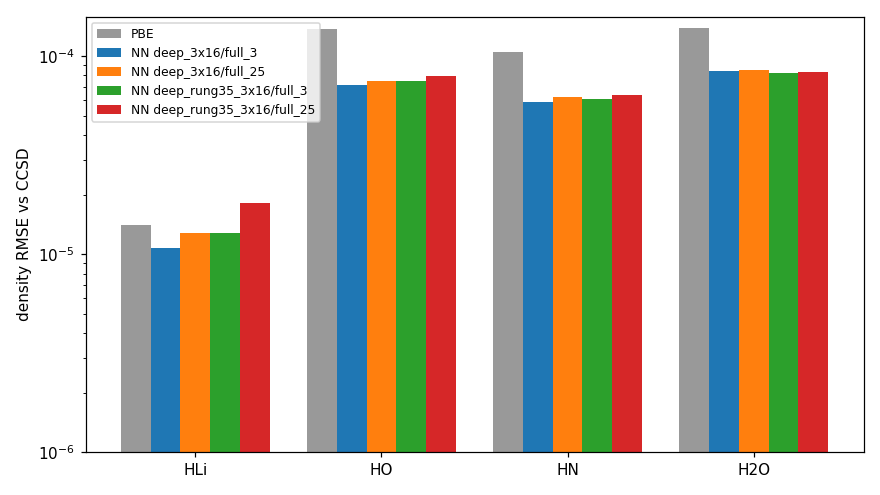
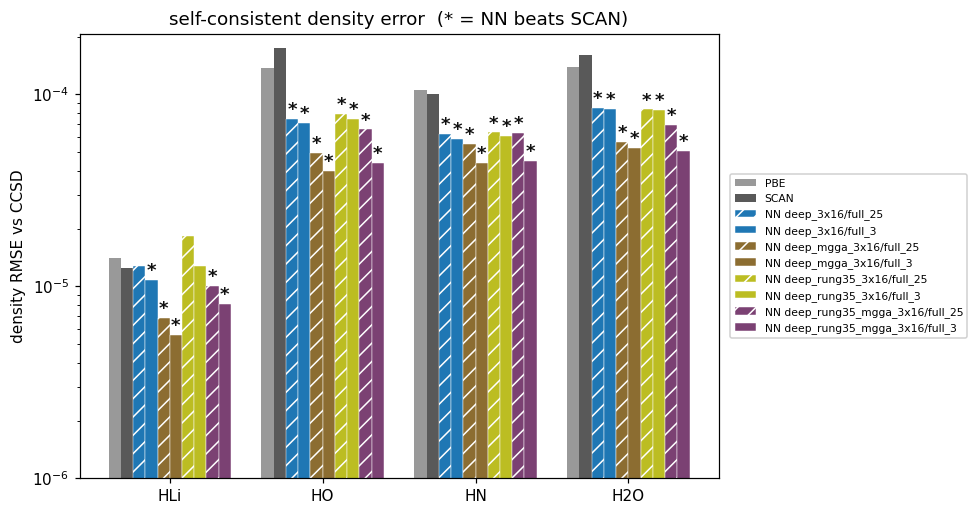
dfs demo README: meta-GGA-inclusive section 4 results + new baseline-line figures + overfitting verdict
4.1/4.2 now carry all 4 archs x 2 solvers (add deep_mgga_3x16 + deep_rung35_mgga_3x16), with a held-out table including PBE + SCAN baselines; embedded figures/*.png refreshed to the Phase-20 baseline-line 4-arch renders from the full run (spot-checked vs committed runs/ eval JSON).

prose rewritten to the audited verdict: held-out density transfers 8/8 (NN beats PBE AND SCAN; SCAN density is worse than PBE), held-out energy inverts the in-sample ranking so the descriptor-rich archs overfit (meta-GGA best in-sample 0.16-0.46, worst held-out 51.01-51.79 = ~110x blow-up), 4/8 beat PBE on energy, ED 8/8. eval code audited correct (own self-consistent atoms, not the anchored-atom artifact). de-staled the 2026-07-04 caveat. alec/HISTORY.md Phase 21.

diff --git a/notebooks/dfs_selfconsistent_density/README.md b/notebooks/dfs_selfconsistent_density/README.md
@@ -285,66 +285,99 @@ Numbers below are a full run of this notebook (`deep_3x16` and `deep_rung35_3x16
 and `full_25`, at `6-311++G(3df,2pd)` / grid 2). Every value is the notebook's own printed output or read
 off its committed figures -- nothing is hand-entered.
 
-> **Update (2026-07-04):** the notebook now also trains two **meta-GGA** nets (`deep_mgga_3x16`,
+> **Update (2026-07-05):** the notebook now also trains two **meta-GGA** nets (`deep_mgga_3x16`,
 > `deep_rung35_mgga_3x16`) and adds a **SCAN** [18] self-consistent baseline alongside PBE (see
 > Section 0), to test whether a learned meta-GGA improves on SCAN itself at reproducing the CCSD
-> density and energies. The tables/figures in this section are from the earlier run (the two
-> GGA-ladder nets vs PBE); the meta-GGA rows and the SCAN comparison populate on the next full run.
-> The outcome is reported as-run -- SCAN is a strong meta-GGA, so beating it is a genuine, not
-> foregone, result.
+> density and energies. **The tables and figures below now include all four architectures (x two
+> solvers) and the SCAN baseline, from the full run.** The headline result is reported as-run and is a
+> genuine, not foregone, one: on the CCSD **density** the nets beat both PBE and SCAN everywhere
+> (SCAN's density is actually *worse* than PBE's), but on held-out **energy** the descriptor-rich
+> meta-GGA/rung-3.5 nets *overfit* the four-molecule pool (best in-sample, worst held-out) -- the
+> capacity pays off only on the full cluster pool, so this demo is a controlled overfitting ablation,
+> not a claim that a 4-molecule-trained meta-GGA beats SCAN on energy.
 
 ### 4.1 In-sample -- the four training molecules
 
-DFS-Fig.2-style combined energy-density error (§8, figure (d)): every network beats PBE on all three axes
-on the training pool.
+DFS-Fig.2-style combined energy-density error (§8, figure (d)): all eight networks (four architectures x
+two solvers) beat PBE on all three axes on the training pool -- and beat SCAN too. PBE and SCAN are the
+model-independent dashed/dotted reference lines; each bar is one NN model read against them.
 
-![in-sample combined energy-density error, NN vs PBE](figures/fig_combined_ed.png)
+![in-sample combined energy-density error, NN vs PBE vs SCAN](figures/fig_combined_ed.png)
 
 | model | AE-MAE (kcal/mol) | mean density RMSE | combined `ED` |
 |---|---|---|---|
-| `deep_3x16` / `full_3`        | **1.67** vs PBE 3.72 | 5.63e-5 vs 9.90e-5 | **1.87** vs 3.72 |
-| `deep_3x16` / `full_25`       | 1.72 | 5.88e-5 | 1.94 |
-| `deep_rung35_3x16` / `full_3` | 1.78 | 5.79e-5 | 1.96 |
-| `deep_rung35_3x16` / `full_25`| 1.94 | 6.12e-5 | 2.10 |
+| `deep_3x16` / `full_3`              | 1.67 vs PBE 3.72 | 5.63e-5 vs 9.90e-5 | 1.87 vs 3.72 |
+| `deep_3x16` / `full_25`             | 1.72 | 5.88e-5 | 1.94 |
+| `deep_mgga_3x16` / `full_3`         | **0.16** | **3.55e-5** | **0.29** |
+| `deep_mgga_3x16` / `full_25`        | 0.46 | 4.21e-5 | 0.71 |
+| `deep_rung35_3x16` / `full_3`       | 1.78 | 5.78e-5 | 1.96 |
+| `deep_rung35_3x16` / `full_25`      | 1.94 | 6.11e-5 | 2.10 |
+| `deep_rung35_mgga_3x16` / `full_3`  | 0.94 | 3.71e-5 | 1.12 |
+| `deep_rung35_mgga_3x16` / `full_25` | 1.07 | 5.20e-5 | 1.38 |
 
-All four roughly **halve** the PBE atomization-energy error (~1.7-1.9 vs 3.72 kcal/mol) and cut the mean
-density RMSE ~40% (the mean is OH-radical-dominated, so the closed-shell wins are larger -- the notebook's
-"excl. OH" print shows ~5.1-5.5e-5 vs 8.6e-5). Per-molecule density and AE breakdowns are
-`figures/fig_density_rmse.png` (figure (b), log scale) and `figures/fig_ae_error.png` (figure (c)).
+Every model beats PBE on all three axes; the **meta-GGA** `deep_mgga_3x16` fits **best** (AE-MAE
+**0.16-0.46** vs PBE 3.72, `ED` 0.29-0.71), the plain GGA and rung-3.5 archs roughly **halve** the PBE
+atomization-energy error (~1.7-1.9), and all cut the mean density RMSE ~40-65% (the mean is
+OH-radical-dominated, so the closed-shell wins are larger). Note the ordering: **richer descriptors fit
+the four training molecules *better*** -- which is exactly what makes the held-out result in §4.2 a clean
+overfitting demonstration. Per-molecule density and AE breakdowns are `figures/fig_density_rmse.png`
+(figure (b), log scale) and `figures/fig_ae_error.png` (figure (c)).
 
 ### 4.2 Held-out generalization -- N2, NO, NO2 (never trained on)
 
 The already-trained models are evaluated, with **no retraining**, on three systems outside the training
 set (§9) -- the honest test of whether four-molecule training learned transferable physics or just
-memorized. All values below are exact (recomputed from the saved eval results). The figure **mirrors §8's
-figure (d)**: energy AE-MAE (top), mean density RMSE (middle), and combined `ED` (bottom), NN vs PBE.
+memorized. All values below are exact (from the saved eval results + the notebook's SCAN baseline). The
+figure **mirrors §8's figure (d)**: energy AE-MAE (top), mean density RMSE (middle), and combined `ED`
+(bottom), NN vs PBE vs SCAN (PBE/SCAN are the dashed/dotted model-independent reference lines).
 
-![held-out generalization (mirrors §8 fig. d): energy AE-MAE, mean density RMSE, and combined ED, NN vs PBE, over N2/NO/NO2](figures/fig_heldout_generalization.png)
+![held-out generalization (mirrors §8 fig. d): energy AE-MAE, mean density RMSE, and combined ED, NN vs PBE vs SCAN, over N2/NO/NO2](figures/fig_heldout_generalization.png)
 
-- **Density transfers universally -- 4/4.** Every model beats PBE on held-out density: NN 1.43-1.50e-4 vs
-  PBE 2.32e-4 (~38% lower), for both architectures and both solvers. The density-matching objective
-  generalizes off the training set.
-- **Energy transfer is architecture-dependent -- 2/4.** The plain GGA `deep_3x16` generalizes strongly on
-  atomization energy (**10.28-10.83** vs PBE **26.70** kcal/mol, a ~60% cut), but the descriptor-rich
-  `deep_rung35_3x16` does **not** (**35.20-35.68**, *worse* than PBE). The extra cusp + rung-3.5 flexibility
-  barely improves the in-sample AE (1.78-1.94 vs `deep_3x16`'s 1.67-1.72) yet **overfits** the four-molecule
-  set, so it fails to extrapolate to the larger held-out systems. On a pool this small, the added
-  descriptors buy nothing in-sample and cost held-out energy generalization -- that capacity only pays off on
-  the full pool (the cluster harness), not this demo.
-- **Combined `ED` still favors NN -- 4/4** (NN 12.66 / 13.08 for `deep_3x16`, 22.83 / 23.20 for
-  `deep_rung35_3x16`, vs PBE 26.70). Even the rung-3.5 models -- whose AE *regresses* -- beat PBE on `ED`,
-  because the universal density win carries the harmonic-mean `ED` (DFS Eq. 21) below the PBE baseline.
+| model | held-out AE-MAE (kcal/mol) | mean density RMSE | combined `ED` |
+|---|---|---|---|
+| **PBE** (baseline)                  | 26.70 | 2.32e-4 | 26.70 |
+| **SCAN** (baseline)                 | 7.25  | 5.60e-4 | 13.03 |
+| `deep_3x16` / `full_3`              | 10.83 | 1.44e-4 | 13.08 |
+| `deep_3x16` / `full_25`             | **10.28** | **1.43e-4** | **12.66** |
+| `deep_mgga_3x16` / `full_3`         | 51.01 | **1.31e-4** | 23.22 |
+| `deep_mgga_3x16` / `full_25`        | 51.79 | 1.34e-4 | 23.68 |
+| `deep_rung35_3x16` / `full_3`       | 35.20 | 1.47e-4 | 22.83 |
+| `deep_rung35_3x16` / `full_25`      | 35.68 | 1.49e-4 | 23.20 |
+| `deep_rung35_mgga_3x16` / `full_3`  | 23.33 | 1.48e-4 | 19.67 |
+| `deep_rung35_mgga_3x16` / `full_25` | 23.39 | 1.50e-4 | 19.89 |
+
+- **Density transfers universally -- 8/8.** Every model beats PBE on held-out density (NN 1.31-1.50e-4 vs
+  PBE 2.32e-4, ~40% lower), for all four architectures and both solvers. And **NN beats SCAN on density,
+  8/8** -- SCAN's held-out density RMSE (5.60e-4) is *worse than PBE's*, so the CCSD-density training
+  objective generalizes off the training set where even the meta-GGA functional does not.
+- **Energy transfer inverts the in-sample ranking -- the descriptor-rich archs OVERFIT (4/8 beat PBE).**
+  The plain GGA `deep_3x16`, which fit in-sample *worst*, generalizes *best* (**10.28-10.83** vs PBE
+  **26.70**, a ~60% cut); the combined `deep_rung35_mgga_3x16` marginally beats PBE (23.33-23.39); but the
+  single-ingredient rich archs *lose* -- `deep_rung35_3x16` (35.20-35.68) and, worst of all, the
+  **meta-GGA `deep_mgga_3x16` (51.01-51.79)**, the very arch with the **best in-sample AE (0.16-0.46)**.
+  That is a **~110x train->held-out blow-up**: the most flexible net memorizes the four molecules and
+  fails to extrapolate. The extra cusp / rung-3.5 / meta-GGA capacity buys a better in-sample fit and
+  *costs* held-out energy generalization -- the textbook fingerprint of **overfitting a four-molecule
+  pool**. This is an intended negative-result ablation: that capacity only pays off on the full pool (the
+  cluster harness, 26 species / 212 reactions), not this teaching toy. (Held-out SCAN energy is actually
+  strong -- 7.25, better than every NN -- the mirror image of its poor density: SCAN nails the N2/NO/NO2
+  energetics but not their densities, while the NN nails the densities but overfits the energies.)
+- **Combined `ED` still favors NN -- 8/8** (NN 12.66-23.68 vs PBE 26.70). Even the archs whose AE
+  *regresses* beat PBE on `ED`, because the universal density win carries the harmonic-mean `ED` (DFS
+  Eq. 21) below the PBE baseline; only the plain GGA also clears SCAN's `ED` (13.03).
 - **The orientation lock generalizes.** NO is a degenerate ²Π radical none of the models saw; its PBE
-  density RMSE is **identical across all four models (2.082e-4)** -- model-independent, exactly as a
+  density RMSE is **identical across all eight models (2.082e-4)** -- model-independent, exactly as a
   *reproducible* density must be. This confirms the §1.7 lock deterministically selects the same
   representative of NO's degenerate manifold on an *unseen* system, so held-out degenerate radicals are
   well-posed, not machine-dependent.
 
-**Takeaway.** The density objective is what transfers; the energy channel transfers for the plain GGA but
-overfits for the richer arch on this tiny pool, and the orientation lock -- the notebook's headline
-degenerate-radical fix -- holds off the training set. Section 9 is **self-contained**: it re-derives its
-config and discovers the trained `runs/<arch>__<solver>/model.eqx` checkpoints on disk, so it regenerates
-this figure from a fresh kernel without retraining (and without depending on the sections 1-8 session).
+**Takeaway.** The density objective is what transfers -- universally, and past SCAN. The energy channel
+transfers for the plain GGA but **overfits monotonically with descriptor richness** (the meta-GGA is best
+in-sample, worst held-out) -- a controlled demonstration that capacity needs data: it pays off on the full
+cluster pool, not four molecules. The orientation lock -- the notebook's headline degenerate-radical fix --
+holds off the training set. Section 9 is **self-contained**: it re-derives its config and discovers the
+trained `runs/<arch>__<solver>/model.eqx` checkpoints on disk, so it regenerates this figure from a fresh
+kernel without retraining (and without depending on the sections 1-8 session).
 
 ---
 

diff --git a/xcquinox/alec/HISTORY.md b/xcquinox/alec/HISTORY.md
@@ -256,6 +256,10 @@ low-risk decoupling fixes (existing decay-free runs stay byte-identical -- all n
 
 - 2026-07-05 `131aef140` (make the demo's NN-vs-PBE-vs-SCAN figures legible + the in-sample and held-out figures consistent) -- DEMO/FIGURE work in `notebooks/dfs_selfconsistent_density/_build_notebook.py` (+ regenerated `train_dfs_density.ipynb`); results-NEUTRAL (presentation only -- the numbers + the `dfs_demo` aggregations are unchanged). Pieces: (a) all NN series use the shared rung-aware palette (`notebooks/analysis/arch_style.py`: arch color + solver hatch), replacing the inconsistent cycle / `C0` / `C2` colors; archs are rung-ordered (GGA -> meta-GGA -> rung-3.5 -> combined). (b) the win/lose VERDICT is made visible -- `beats_pbe`/`beats_scan` (emitted by the aggregation fns but previously text-only) are annotated as `*` markers. (c) the §9 held-out figure gained the missing ED panel + a beat-tally subtitle (it plotted D + E_MAE but not ED, though `combined_energy_density`/`heldout_summary` carry it). (d) **[user request]** the 3-panel `fig_combined_ed` no longer redraws the model-INDEPENDENT PBE/SCAN as a redundant bar at every tick -- they are now labeled HORIZONTAL reference lines (a shared `baseline_panel` helper), so each tick reads cleanly as the NN value against the PBE/SCAN baselines; x-tick labels are TILTED (`rotation=32, ha=right`) so the long rung-mixed arch names stop overlapping. (e) **PARITY:** the held-out `fig_heldout_generalization` was 1x3 (D/E/ED) via a separate helper while the in-sample was 3x1 (E/D/ED); both now use the SAME `baseline_panel` + the SAME 3x1-sharex E/D/ED layout, so they are structurally identical. (f) the held-out NN-eval loop prints per-network progress + timing (`held-out eval i/N: arch/solver (forward-only SCF) ... done in Xs`); the label documents that the eval is the Phase-18 forward-only path (no fused per-molecule compile) so it no longer looks hung. **Verified:** a SMOKE nbclient render executed the whole notebook clean end-to-end (SCAN-Li fix + de-fuse in place), both figures render with the new design, and the per-network progress appears (~24 s/network on the smoke basis). **Why:** the demo's scientific question is "does a net trained on CCSD densities beat PBE *and SCAN*"; a visible verdict + a consistent, decluttered, in-sample/held-out-parallel presentation makes that answer readable at a glance.
 
+## Phase 21 -- held-out generalization verdict (subset-overfitting, NOT a code bug) + README meta-GGA update (2026-07-05)
+
+- 2026-07-05 `<pending>` (answer "why do the demo's held-out generalizations mostly fail -- code bug or subset?" + fold the now-available meta-GGA results into the demo README) -- INVESTIGATION + DOC; results-NEUTRAL (documents already-computed eval data, changes no numbers). Two independent read-only audits of the DFS demo held-out eval established: (1) the eval CODE is correct -- held-out AE uses the net's OWN self-consistent N/O atom energies (`ae_as_reactions=True` puts the atoms in the spec + evaluates them -> `self_consistent_ae` reads those, `dfs_demo.py:630-649`; the anchored `AE_nn` field is computed but DEAD-ENDED, never read), real DFS-pool CCSD(T)(F12) refs with correct sign/Hill-mapping, byte-for-byte the same path as the already-fixed in-sample eval -- so the "failure to beat PBE" is NOT the old anchored-atom artifact or any sign/ref/missing-atom bug. (2) the DATA is a textbook overfitting signature: all 4 archs beat PBE IN-SAMPLE on every axis (the meta-GGA `deep_mgga_3x16` is BEST, AE 0.16-0.46), held-out DENSITY generalizes 8/8 (and beats SCAN -- whose held-out density RMSE 5.60e-4 is WORSE than PBE's 2.32e-4), but held-out ENERGY INVERTS the in-sample ranking -- the descriptor-rich archs overfit (`deep_mgga_3x16` 51.01-51.79 held-out despite 0.16-0.46 in-sample = a ~110x train->held-out blow-up; 4/8 beat PBE on energy; ED 8/8 beat PBE). A code failure would degrade in-sample too and hit density AND energy uniformly -- the opposite of the data. Updated `notebooks/dfs_selfconsistent_density/README.md` §4.1/§4.2 to the 4-arch-x-2-solver, SCAN-inclusive tables + prose carrying this verdict; refreshed the embedded `figures/*.png` (fig_combined_ed, fig_heldout_generalization, fig_density_rmse, fig_ae_error) to the Phase-20 baseline-line 4-arch design from the full run (spot-checked vs committed `runs/*/eval` JSON); de-staled the 2026-07-04 "populate on the next full run" caveat. **Why:** the demo's scientific claim had to be pinned down and made trustworthy -- it is "the CCSD-density objective transfers (past SCAN); energy overfits a 4-molecule pool," a CONTROLLED negative-result ablation whose capacity pays off only on the full cluster pool (26 species / 212 reactions) -- NOT "a 4-molecule-trained meta-GGA beats SCAN on energy." Ruling out a code artifact is what makes the negative result citable.
+
 ## Open / in-progress (as of 2026-06-20)
 
 - **Full DFS-pool training still does not beat PBE.** The 2026-06-20 multi-opus adversarial review (`reports_local/dfs_discrepancy_review_2026-06-20.md`) verified the cause is a *compound* generalization gap -- network over-capacity (4x32 vs DFS 3x16) trained with none of DFS's anti-overfit machinery (no L2, no disjoint-validation early-stop / validation-best selection) -- with the loss/SCF/density deviations capping the achievable ceiling rather than driving the decoupling. The DECOUPLING FIXES are now implemented + adversarially-verified + committed: 3x16 capacity (`ac4de863d`), L2 weight decay (`ac4de863d`), held-out validation/early-stop + validation-best (`a8f0c45a7`), plus harness resilience -- resumable training (`498e35640`) + resubmit-resume (`60a831a40`) -- and the submittable v3 A/B job (`f48e5f1a3`). The v3 job's first launch (`run_20260621T140311Z`) crashed ALL 88 train_eval specs on the adamw optimizer-update tree mismatch, now fixed (`2a6266215`). **Next gate (USER):** rsync `train.py` + `resubmit --submit` the v3 run (cached datagen/pretrain/CCSD-refs skip), then compare the held-out TEST-slice MAE vs the existing 4x32 run (`run_20260611T022820Z`) -- expect the in-sample<->held-out gap to shrink. The `full_25` SCF ceiling fix + a tzvpd-DF variant are the follow-ups once the gap closes.
